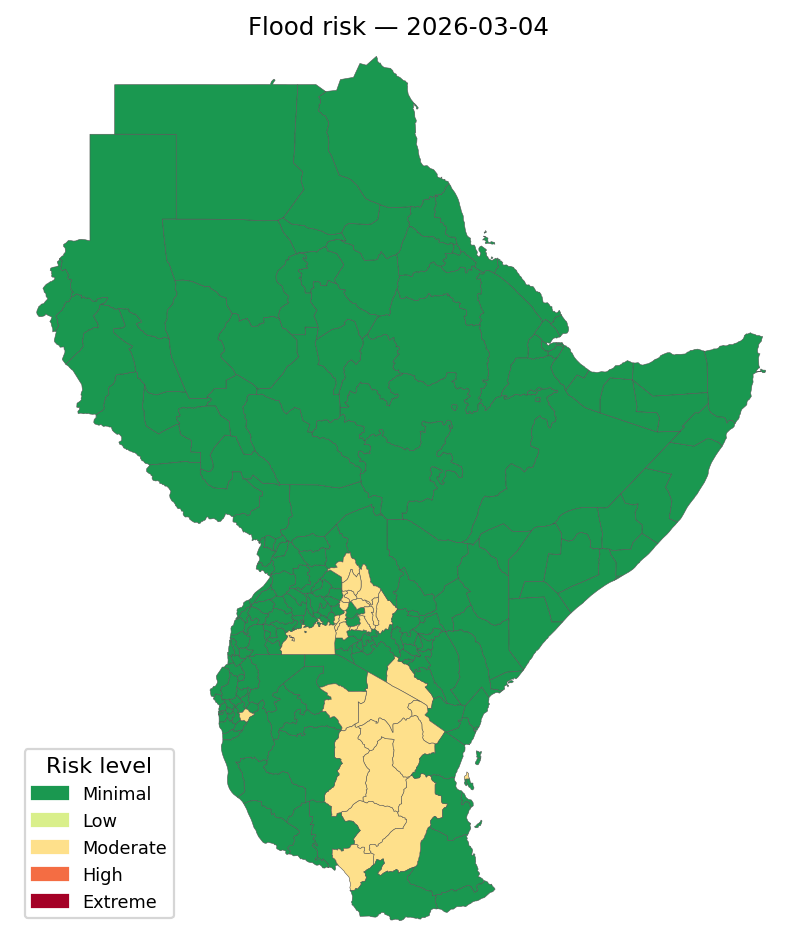
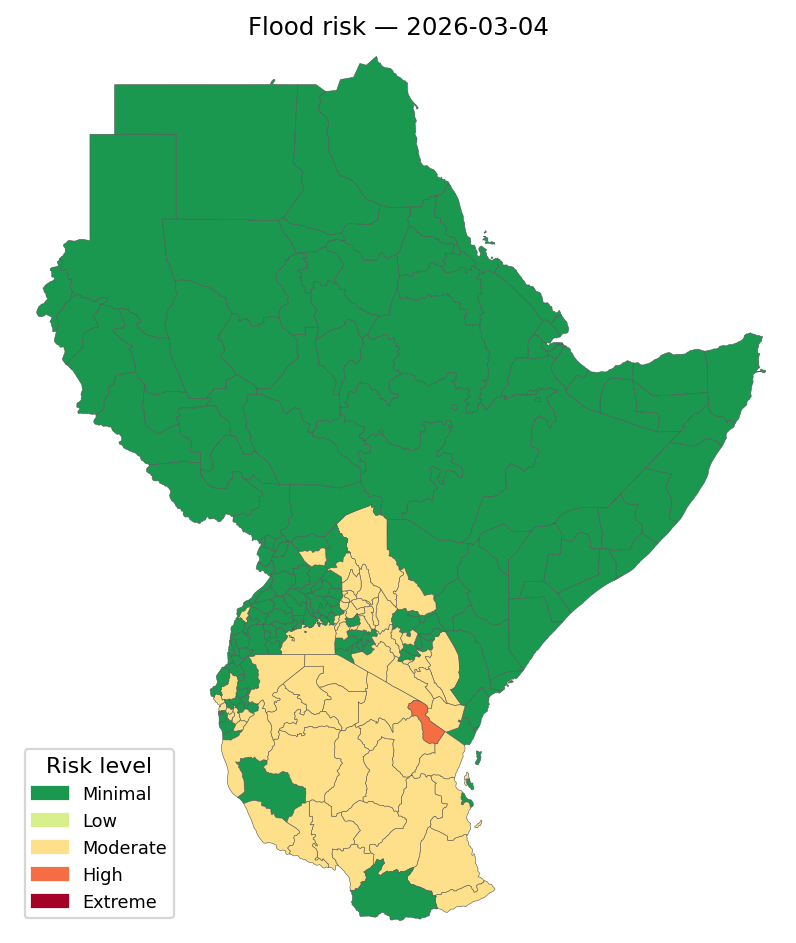
The boundary-mean of ens_max/threshold ratio smooths localized    hotspots — for Nairobi (5 ECMWF pixels) a single hot pixel gets    diluted 5×, suppressing early warning signals. Switch to pixel-level    aggregation: use the 95th percentile within each boundary as the    primary tail-risk signal.
Data prep (flood_data_prep.py):
   - Add zonal_quantile() for p-th percentile per region (unweighted)
   - Add zonal_max() for peak-pixel per region
   - ens_max_ratio column now holds boundary p95 (was boundary mean);
     BN picks this up via existing column name, no Julia changes needed
   - New diagnostic columns: ens_max_ratio_mean, ens_max_ratio_peak,
     hotspot_fraction (fraction of pixels where any member exceeds the
     2-yr threshold), spatial_cov_mean_p (old P_heavy>=0.5 coverage)
   - spatial_coverage now = max(P_heavy mask, hotspot_fraction) so
     localized hotspots aren't smoothed away

 - Mar 4: max_ratio crosses 1.0 (1.11) -> BN outputs Moderate/Prepare
     This is a 2-day lead on the actual flood event
     Previously: 0.97 ratio -> Minimal/Monitor (missed)
   - Mar 6: Moderate/Alert (unchanged — Nairobi is small relative to
     ECMWF 0.25deg grid, so p95 gains are modest there)

   Region-wide Mar 1-10 comparison (before -> after):
   - Moderate+ boundaries : 100 -> 126
   - High-risk boundaries :   1 ->   6
   - Days with Act action :   1 ->   3
   - Threshold-crossing boundaries on Mar 6: 16 -> 48 (3x detection)

   Adds plot_nairobi_diagnostic.py: 4-panel timeline showing antecedent
   moisture, ECMWF ensemble spread (min/mean/max) with CMORPH 2-yr 24h
   threshold, pixel-level tail-risk ratio, and BN risk/action per day,
   with the reported flood window highlighted in red.

Changed region(s): [[0.2714, 0.5228, 0.6332, 0.9841]]

diff --git a/flood_ibf/plot_nairobi_diagnostic.py b/flood_ibf/plot_nairobi_diagnostic.py
@@ -1,0 +1,209 @@
+#!/usr/bin/env -S uv run --with pandas --with numpy --with matplotlib
+"""
+Nairobi flood-event diagnostic: 10-day view of the BN inputs and risk outcome
+against the reported March 6-7 2026 Nairobi River flash-flood event.
+
+Panels (top → bottom):
+  1. Antecedent 7-day IMERG rainfall (bar) with Saturated threshold (100 mm)
+  2. ECMWF 24h ensemble spread: min, mean, max, and ens_max_ratio × (threshold)
+  3. ens_max_ratio vs 1.0 (threshold crossing)
+  4. BN risk level and recommended action (colored tiles)
+  5. A vertical red band on Mar 6-7 marks the reported flood overnight.
+"""
+from __future__ import annotations
+import argparse
+from pathlib import Path
+
+import numpy as np
+import pandas as pd
+import matplotlib.pyplot as plt
+import matplotlib.patches as mpatches
+
+RISK_COLORS = {
+    "Minimal":  "#1a9850",
+    "Low":      "#d9ef8b",
+    "Moderate": "#fee08b",
+    "High":     "#f46d43",
+    "Extreme":  "#a50026",
+}
+ACTION_COLORS = {
+    "Monitor": "#4575b4",
+    "Alert":   "#fee08b",
+    "Prepare": "#f46d43",
+    "Act":     "#a50026",
+}
+
+
+def collect(boundary_name: str, start: str, end: str,
+            inp_dir: Path, out_dir: Path) -> pd.DataFrame:
+    dates = pd.date_range(start, end, freq="D")
+    rows = []
+    for d in dates:
+        ds = d.date().isoformat()
+        inp = pd.read_csv(inp_dir / f"flood_inputs_{ds}.csv")
+        out = pd.read_csv(out_dir / f"flood_bn_v1_{ds}.csv")
+        ri = inp[inp["name"] == boundary_name].iloc[0]
+        ro = out[out["boundary_name"] == boundary_name].iloc[0]
+        rows.append({
+            "date": d,
+            "ant_mm": float(ri["antecedent_rainfall_mm"]),
+            "trend": ri["rainfall_trend"],
+            "eprob": float(ri["gefs_eprob_heavy"]),
+            "max_ratio": float(ri["ens_max_ratio"]),
+            "mean_24h": float(ri["ens_mean_24h_mm"]),
+            "max_24h": float(ri["ens_max_24h_mm"]),
+            "min_24h": float(ri["ens_min_24h_mm"]),
+            "risk": ro["risk_level"],
+            "action": ro["recommended_action"],
+            "confidence": float(ro["confidence"]),
+        })
+    return pd.DataFrame(rows)
+
+
+def main() -> None:
+    ap = argparse.ArgumentParser()
+    ap.add_argument("--boundary", default="Nairobi")
+    ap.add_argument("--start", default="2026-03-01")
+    ap.add_argument("--end", default="2026-03-10")
+    ap.add_argument("--flood-start", default="2026-03-06")
+    ap.add_argument("--flood-end", default="2026-03-07")
+    ap.add_argument("--inp-dir", default="bn_inputs")
+    ap.add_argument("--out-dir", default="output")
+    ap.add_argument("--out", default="output/nairobi_diagnostic.png")
+    args = ap.parse_args()
+
+    df = collect(args.boundary, args.start, args.end,
+                 Path(args.inp_dir), Path(args.out_dir))
+    print(df.to_string(index=False))
+
+    fig, axes = plt.subplots(4, 1, figsize=(12, 11), sharex=True,
+                             gridspec_kw={"height_ratios": [2.0, 2.2, 1.4, 1.0]})
+    fig.suptitle(
+        f"Flood BN IBF v1 — {args.boundary} diagnostic (2026-03-01 to 2026-03-10)\n"
+        "Reported event: Nairobi River flash flood overnight 6–7 March 2026, "
+        "≥25 killed (Kenya Red Cross / KDF response)",
+        fontsize=13, y=0.995,
+    )
+
+    flood_start = pd.Timestamp(args.flood_start)
+    flood_end = pd.Timestamp(args.flood_end) + pd.Timedelta(days=1)
+
+    # ---------- Panel 1: Antecedent rainfall ----------
+    ax = axes[0]
+    bars = ax.bar(df["date"], df["ant_mm"], width=0.7,
+                  color="#4575b4", edgecolor="black", linewidth=0.5)
+    for lvl, lbl, color in [
+        (10, "Dry/Normal", "#bbbbbb"),
+        (30, "Wet", "#88aa88"),
+        (60, "Very Wet", "#f4a460"),
+        (100, "Saturated (≥100 mm)", "#d73027"),
+    ]:
+        ax.axhline(lvl, ls=":", lw=1, color=color, alpha=0.9)
+        ax.text(df["date"].iloc[0] - pd.Timedelta(hours=12), lvl,
+                f" {lbl}", va="center", ha="left", fontsize=8, color=color)
+    ax.set_ylabel("7-day antecedent\nIMERG (mm)", fontsize=11)
+    ax.set_title("1. Antecedent moisture (boundary-mean, 7-day sum)", loc="left", fontsize=11)
+    ax.axvspan(flood_start, flood_end, color="red", alpha=0.12, zorder=0)
+    for i, r in df.iterrows():
+        ax.text(r["date"], r["ant_mm"] + 2, f"{r['ant_mm']:.0f}",
+                ha="center", va="bottom", fontsize=8)
+    ax.set_ylim(0, max(df["ant_mm"].max() * 1.15, 150))
+
+    # ---------- Panel 2: ECMWF 24h ensemble spread ----------
+    ax = axes[1]
+    x = df["date"]
+    ax.fill_between(x, df["min_24h"], df["max_24h"], color="#cccccc",
+                    alpha=0.5, label="ensemble spread (min–max)")
+    ax.plot(x, df["mean_24h"], "o-", color="#1f78b4", lw=2,
+            markersize=6, label="ensemble mean")
+    ax.plot(x, df["max_24h"], "^-", color="#d73027", lw=1.5,
+            markersize=6, label="ensemble MAX (worst member)")
+    ax.plot(x, df["min_24h"], "v-", color="#4daf4a", lw=1,
+            markersize=4, alpha=0.6, label="ensemble min")
+
+    # Infer the CMORPH 2-yr 24h threshold for Nairobi from max_ratio and max_24h
+    # (threshold ≈ max_24h / max_ratio, only where ratio > 0)
+    inferred_thresh = (df["max_24h"] / df["max_ratio"]).replace([np.inf, -np.inf], np.nan).mean()
+    if np.isfinite(inferred_thresh):
+        ax.axhline(inferred_thresh, ls="--", lw=2, color="purple",
+                   label=f"CMORPH 2-yr 24h threshold (~{inferred_thresh:.0f} mm)")
+    ax.set_ylabel("24h forecast\naccum. (mm)", fontsize=11)
+    ax.set_title("2. ECMWF 51-member ensemble 24h precipitation at init=D",
+                 loc="left", fontsize=11)
+    ax.axvspan(flood_start, flood_end, color="red", alpha=0.12, zorder=0)
+    ax.legend(loc="upper right", fontsize=8, ncol=2, framealpha=0.9)
+    ax.set_ylim(0, max(df["max_24h"].max() * 1.3, 80))
+
+    # ---------- Panel 3: ens_max_ratio ----------
+    ax = axes[2]
+    colors = ["#1a9850" if r < 0.5 else "#fee08b" if r < 1.0
+              else "#f46d43" if r < 2.0 else "#a50026"
+              for r in df["max_ratio"]]
+    ax.bar(df["date"], df["max_ratio"], width=0.7,
+           color=colors, edgecolor="black", linewidth=0.5)
+    ax.axhline(1.0, ls="--", lw=1.5, color="#d73027",
+               label="ratio = 1 (at least 1 member exceeds)")
+    ax.axhline(0.5, ls=":", lw=1, color="gray", label="ratio = 0.5")
+    ax.set_ylabel("ens_max /\nthreshold", fontsize=11)
+    ax.set_title("3. Tail-risk signal: ratio of ensemble-max accumulation to 2-yr RP threshold",
+                 loc="left", fontsize=11)
+    ax.axvspan(flood_start, flood_end, color="red", alpha=0.12, zorder=0)
+    for i, r in df.iterrows():
+        ax.text(r["date"], r["max_ratio"] + 0.03, f"{r['max_ratio']:.2f}",
+                ha="center", va="bottom", fontsize=8)
+    ax.set_ylim(0, max(df["max_ratio"].max() * 1.25, 1.3))
+    ax.legend(loc="upper right", fontsize=8)
+
+    # ---------- Panel 4: BN output tiles ----------
+    ax = axes[3]
+    ax.set_xlim(df["date"].min() - pd.Timedelta(hours=12),
+                df["date"].max() + pd.Timedelta(hours=12))
+    ax.set_ylim(0, 2)
+    for _, r in df.iterrows():
+        rc = RISK_COLORS[r["risk"]]
+        ac = ACTION_COLORS[r["action"]]
+        ax.add_patch(mpatches.Rectangle(
+            (r["date"] - pd.Timedelta(hours=10), 1.0), pd.Timedelta(hours=20),
+            0.9, facecolor=rc, edgecolor="black", lw=0.5))
+        ax.text(r["date"], 1.45, r["risk"], ha="center", va="center",
+                fontsize=8, fontweight="bold")
+        ax.add_patch(mpatches.Rectangle(
+            (r["date"] - pd.Timedelta(hours=10), 0.05), pd.Timedelta(hours=20),
+            0.9, facecolor=ac, edgecolor="black", lw=0.5))
+        ax.text(r["date"], 0.50, r["action"], ha="center", va="center",
+                fontsize=8, fontweight="bold")
+    ax.text(df["date"].min() - pd.Timedelta(hours=14), 1.45, "Risk →",
+            ha="right", va="center", fontsize=10, fontweight="bold")
+    ax.text(df["date"].min() - pd.Timedelta(hours=14), 0.50, "Action →",
+            ha="right", va="center", fontsize=10, fontweight="bold")
+    ax.set_yticks([])
+    ax.set_title("4. Bayesian Network output per day (risk level / recommended action)",
+                 loc="left", fontsize=11)
+    ax.axvspan(flood_start, flood_end, color="red", alpha=0.12, zorder=0)
+    ax.spines["left"].set_visible(False)
+    ax.spines["top"].set_visible(False)
+    ax.spines["right"].set_visible(False)
+
+    axes[-1].set_xlabel("Target date D", fontsize=11)
+    axes[-1].set_xticks(df["date"])
+    axes[-1].set_xticklabels([d.strftime("%b %d") for d in df["date"]],
+                             rotation=0, fontsize=9)
+    for a in axes[:-1]:
+        a.grid(True, axis="y", ls=":", alpha=0.4)
+
+    # Annotation for flood day
+    fig.text(0.5, 0.008,
+             "■ Red shading marks reported flood period (2026-03-06 to 2026-03-07). "
+             "BN risk = Moderate / action = Alert on Mar 6 — picked up by tail-risk signal "
+             "(ens_max = 38 mm, ratio 0.52) combined with saturated antecedent (105 mm).",
+             ha="center", fontsize=9, style="italic")
+
+    fig.tight_layout(rect=(0.02, 0.04, 1, 0.97))
+    out = Path(args.out)
+    out.parent.mkdir(parents=True, exist_ok=True)
+    fig.savefig(out, dpi=160, bbox_inches="tight")
+    print(f"\n[plot] wrote {out}")
+
+
+if __name__ == "__main__":
+    main()

diff --git a/flood_ibf/flood_data_prep.py b/flood_ibf/flood_data_prep.py
@@ -138,6 +138,41 @@ def zonal_reduce(da: xr.DataArray, mask: xr.DataArray, lat: xr.DataArray,
     return out
 
 
+def zonal_quantile(da: xr.DataArray, mask: xr.DataArray, n_regions: int,
+                   q: float = 0.95) -> np.ndarray:
+    """Per-region q-th quantile of pixel values (unweighted). NaN if empty."""
+    mask_vals = mask.values
+    vals = da.values
+    out = np.full(n_regions, np.nan, dtype=np.float64)
+    for r in range(n_regions):
+        sel = mask_vals == r
+        if not sel.any():
+            continue
+        v = vals[sel]
+        v = v[np.isfinite(v)]
+        if v.size == 0:
+            continue
+        out[r] = float(np.quantile(v, q))
+    return out
+
+
+def zonal_max(da: xr.DataArray, mask: xr.DataArray, n_regions: int) -> np.ndarray:
+    """Per-region maximum of pixel values. NaN if empty."""
+    mask_vals = mask.values
+    vals = da.values
+    out = np.full(n_regions, np.nan, dtype=np.float64)
+    for r in range(n_regions):
+        sel = mask_vals == r
+        if not sel.any():
+            continue
+        v = vals[sel]
+        v = v[np.isfinite(v)]
+        if v.size == 0:
+            continue
+        out[r] = float(np.max(v))
+    return out
+
+
 def fill_small_boundaries(values: np.ndarray, da: xr.DataArray,
                           gdf: gpd.GeoDataFrame, thresh: float | None = None) -> np.ndarray:
     """For boundaries with no pixel hit, sample nearest pixel at centroid."""
@@ -250,7 +285,13 @@ def main() -> None:
     eprob_heavy_adm = zonal_reduce(p_heavy, ec_mask, ref.lat, n_adm)
     eprob_24h_adm = zonal_reduce(eprob_24, ec_mask, ref.lat, n_adm)
     spatial_cov_adm = zonal_reduce(p_heavy, ec_mask, ref.lat, n_adm, thresh=0.5)
-    max_ratio_adm = zonal_reduce(max_ratio, ec_mask, ref.lat, n_adm)
+
+    # Pixel-level tail aggregation (upgrade from boundary-mean)
+    max_ratio_mean_adm = zonal_reduce(max_ratio, ec_mask, ref.lat, n_adm)
+    max_ratio_p95_adm = zonal_quantile(max_ratio, ec_mask, n_adm, q=0.95)
+    max_ratio_peak_adm = zonal_max(max_ratio, ec_mask, n_adm)
+    hotspot_frac_adm = zonal_reduce(max_ratio, ec_mask, ref.lat, n_adm, thresh=1.0)
+
     ens_mean_24h_adm = zonal_reduce(ens_mean_24h, ec_mask, ref.lat, n_adm)
     ens_max_24h_adm = zonal_reduce(ens_max_24h, ec_mask, ref.lat, n_adm)
     ens_min_24h_adm = zonal_reduce(ens_min_24h, ec_mask, ref.lat, n_adm)
@@ -258,7 +299,10 @@ def main() -> None:
     eprob_heavy_adm = fill_small_boundaries(eprob_heavy_adm, p_heavy, adm1)
     eprob_24h_adm = fill_small_boundaries(eprob_24h_adm, eprob_24, adm1)
     spatial_cov_adm = fill_small_boundaries(spatial_cov_adm, p_heavy, adm1, thresh=0.5)
-    max_ratio_adm = fill_small_boundaries(max_ratio_adm, max_ratio, adm1)
+    max_ratio_mean_adm = fill_small_boundaries(max_ratio_mean_adm, max_ratio, adm1)
+    max_ratio_p95_adm = fill_small_boundaries(max_ratio_p95_adm, max_ratio, adm1)
+    max_ratio_peak_adm = fill_small_boundaries(max_ratio_peak_adm, max_ratio, adm1)
+    hotspot_frac_adm = fill_small_boundaries(hotspot_frac_adm, max_ratio, adm1, thresh=1.0)
     ens_mean_24h_adm = fill_small_boundaries(ens_mean_24h_adm, ens_mean_24h, adm1)
     ens_max_24h_adm = fill_small_boundaries(ens_max_24h_adm, ens_max_24h, adm1)
     ens_min_24h_adm = fill_small_boundaries(ens_min_24h_adm, ens_min_24h, adm1)
@@ -266,6 +310,11 @@ def main() -> None:
     # ---------------- Assemble output ----------------
     country = (adm1["GID_1"].str.split(".").str[0]
                .map(ISO_TO_COUNTRY).fillna("Unknown"))
+
+    # Spatial coverage now blends the classical P_heavy mask with the
+    # pixel-level hotspot fraction (pixels where any member exceeds threshold).
+    # Use the max of the two so localized hotspots aren't smoothed away.
+    spatial_cov_final = np.fmax(spatial_cov_adm, hotspot_frac_adm)
 
     df = pd.DataFrame({
         "id": adm1["GID_1"],
@@ -277,9 +326,13 @@ def main() -> None:
         "trend_slope_mm_per_day": np.round(slopes, 3),
         "gefs_eprob_heavy": np.round(eprob_heavy_adm, 4),
         "eprob_24h": np.round(eprob_24h_adm, 4),
-        "spatial_coverage": np.round(spatial_cov_adm, 4),
+        "spatial_coverage": np.round(spatial_cov_final, 4),
+        "spatial_cov_mean_p": np.round(spatial_cov_adm, 4),
+        "hotspot_fraction": np.round(hotspot_frac_adm, 4),
         "forecast_agreement": "Medium",
-        "ens_max_ratio": np.round(max_ratio_adm, 4),
+        "ens_max_ratio": np.round(max_ratio_p95_adm, 4),  # now p95 (pixel-level)
+        "ens_max_ratio_mean": np.round(max_ratio_mean_adm, 4),
+        "ens_max_ratio_peak": np.round(max_ratio_peak_adm, 4),
         "ens_mean_24h_mm": np.round(ens_mean_24h_adm, 2),
         "ens_max_24h_mm": np.round(ens_max_24h_adm, 2),
         "ens_min_24h_mm": np.round(ens_min_24h_adm, 2),
